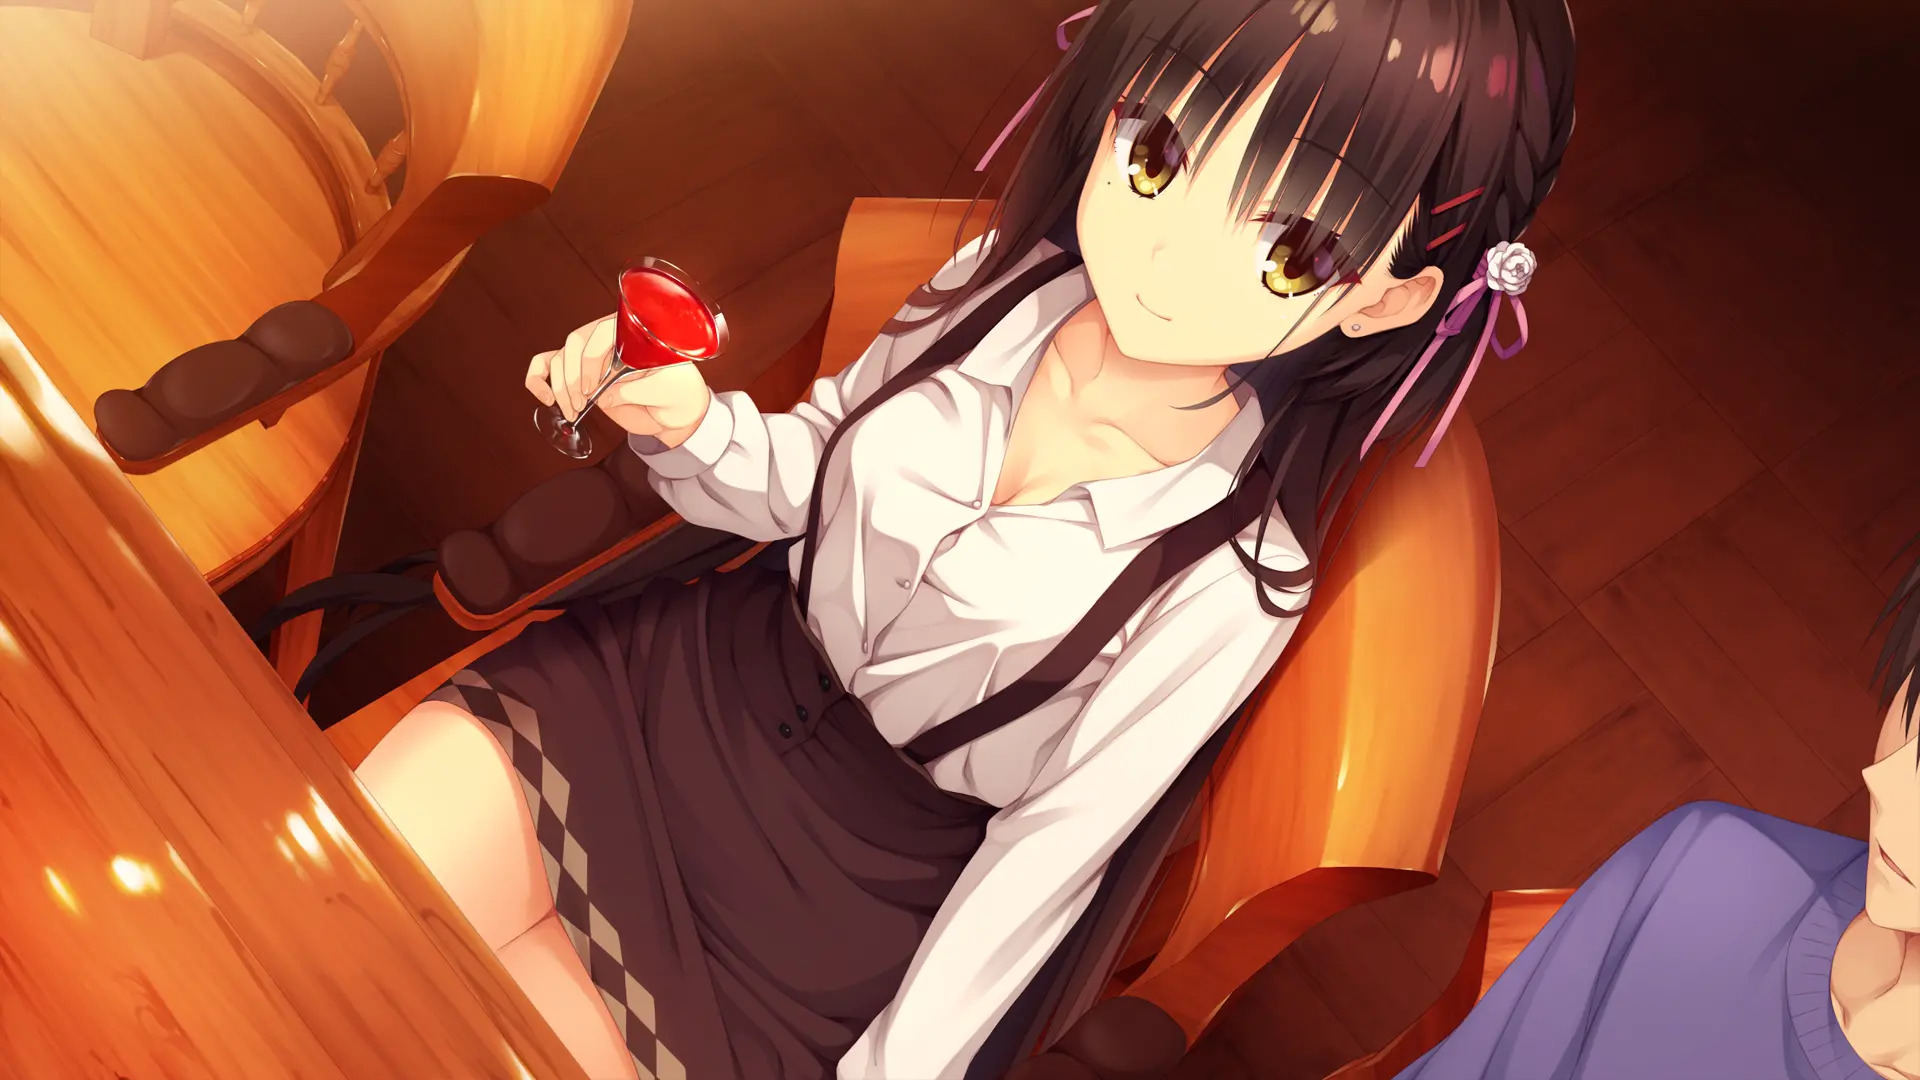
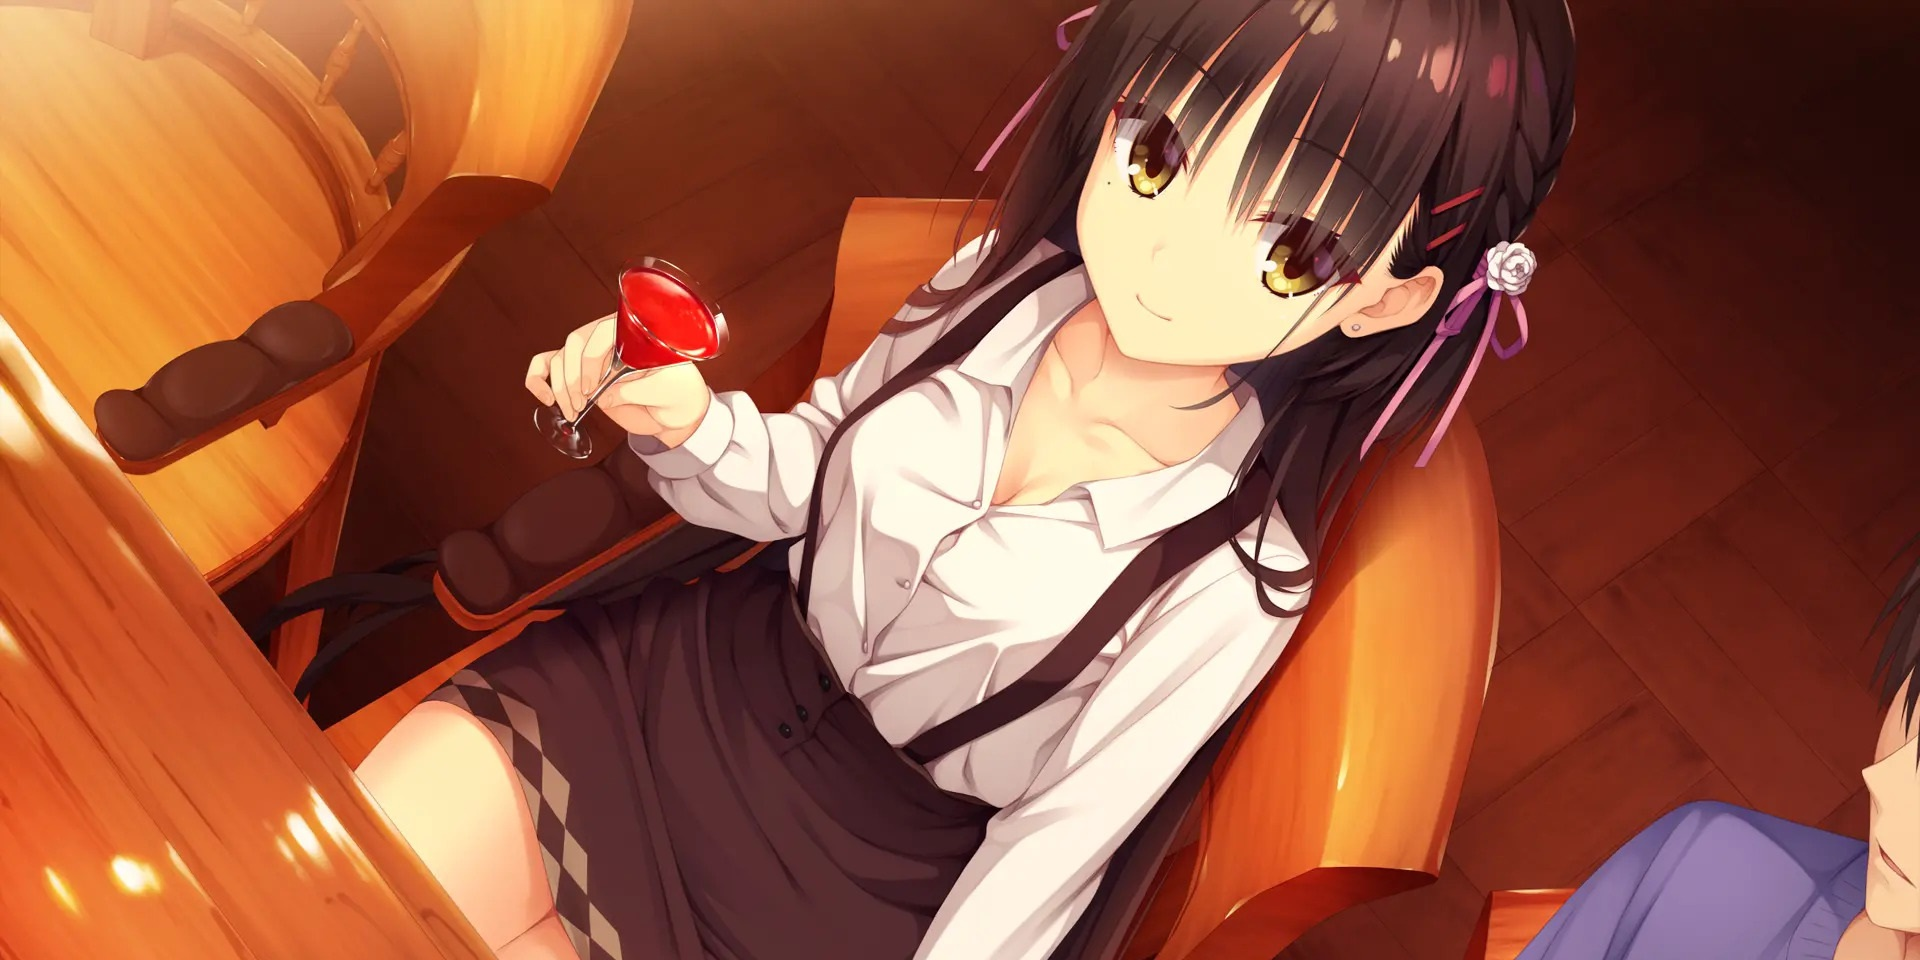
cropped a bit

diff --git a/src/landing/landing.html b/src/landing/landing.html
@@ -7,11 +7,30 @@
 
 <link rel="icon" href="https://raw.githubusercontent.com/kiiyokami/landing-page-v2/main/assets/favico.png">
 <link rel="stylesheet" href="https://www.w3schools.com/w3css/4/w3.css">
-<link rel="stylesheet" href="landing.css">
 
+<style>
+body, html {
+  height: 100%;
+  color: #000000;
+  line-height: 1.8;
+  background-color: #282828;
+}
+.bg-img{
+    background-image: url("https://raw.githubusercontent.com/kiiyokami/landing-page-v2/main/assets/natsume.jpg");
+    background-attachment: fixed;
+    background-position: center;
+    background-repeat: no-repeat;
+    background-size: cover;
+    height: 100%;
+}
+</style>
 
 </head>
 <body>
-<div class="bg-img"></div>
+<div class="bg-img w3-display-container w3-opacity-min" id="home">
+    <div class="w3-display-middle" style="white-space: nowrap;">
+        <span class="w3-center w3-padding-large w3-black w3-xlarge w3-wide w3-animate-opacity">Welcome to Kiiyo's Userpage!<span class="w3-hide-small"></span></span>
+    </div>
+</div>
 </body>
 </html>
